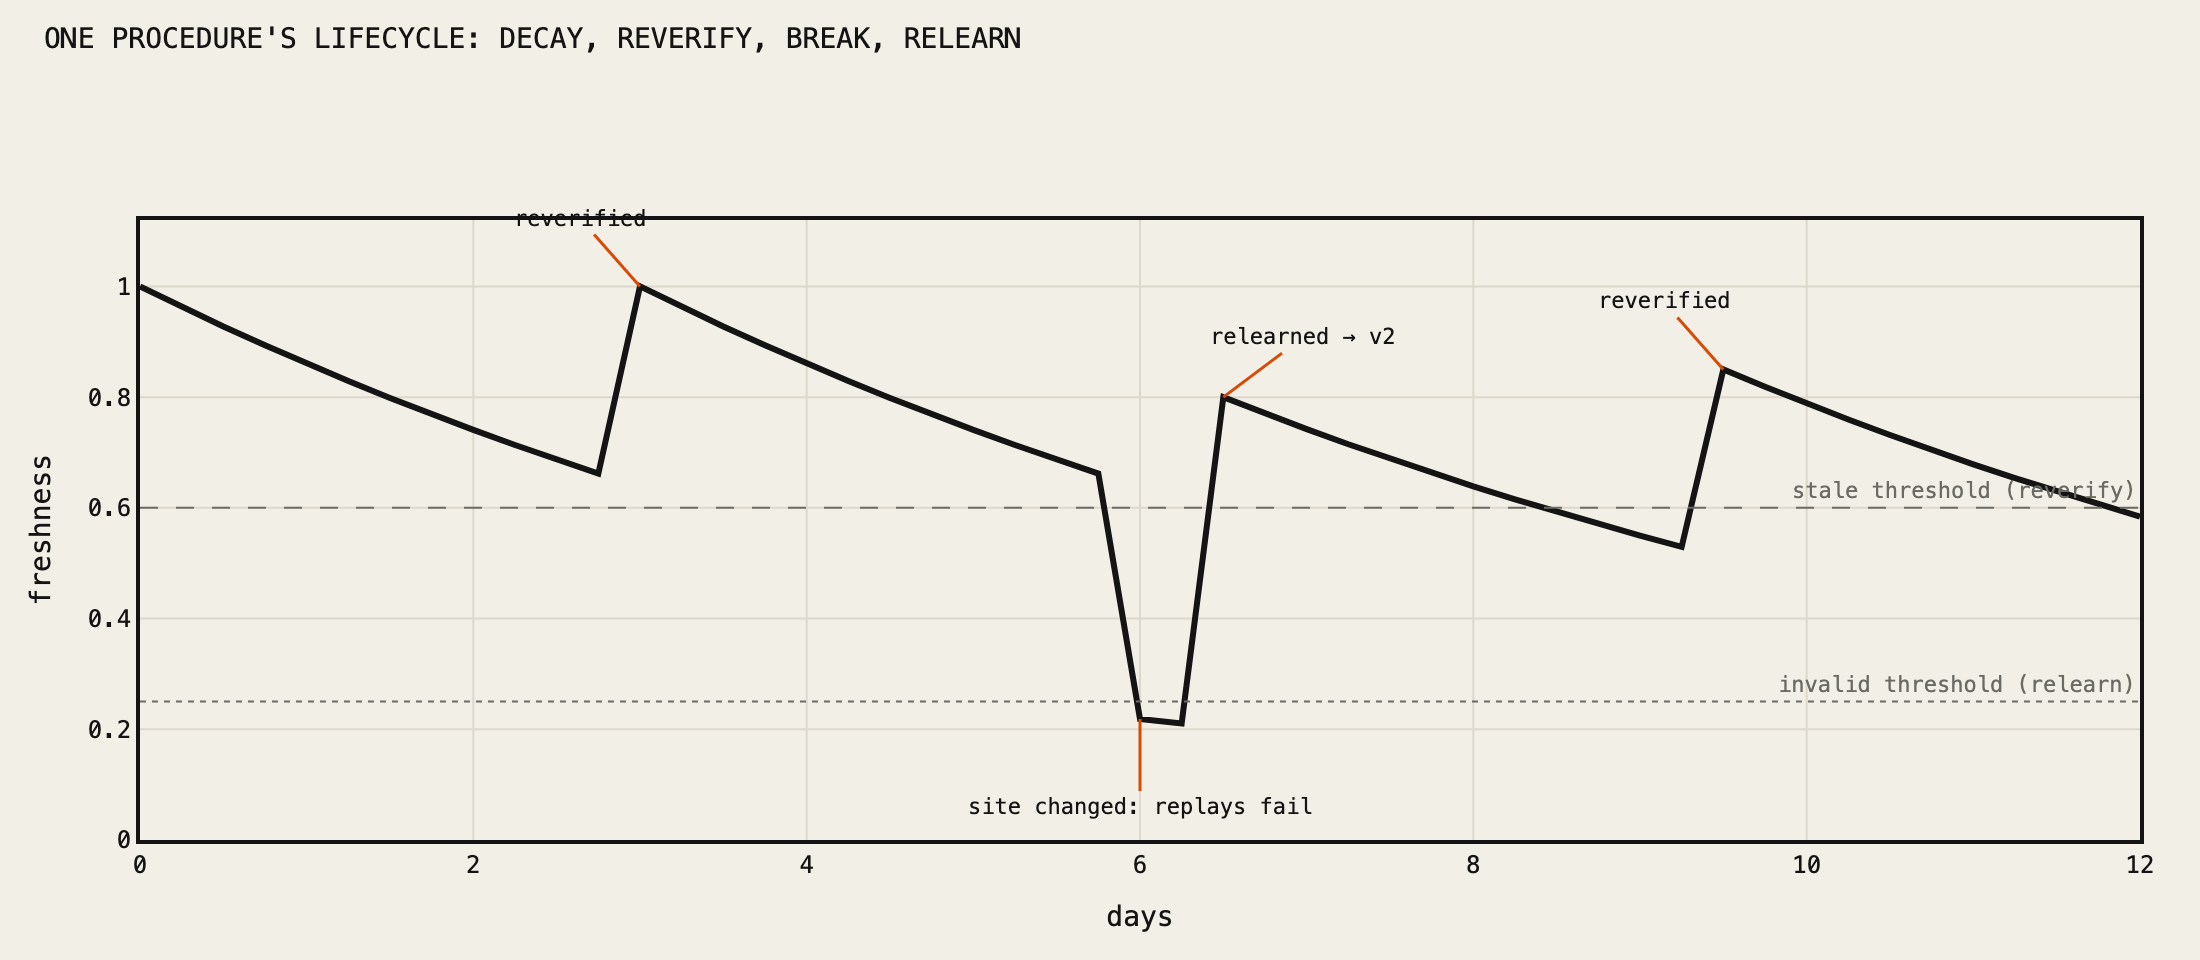
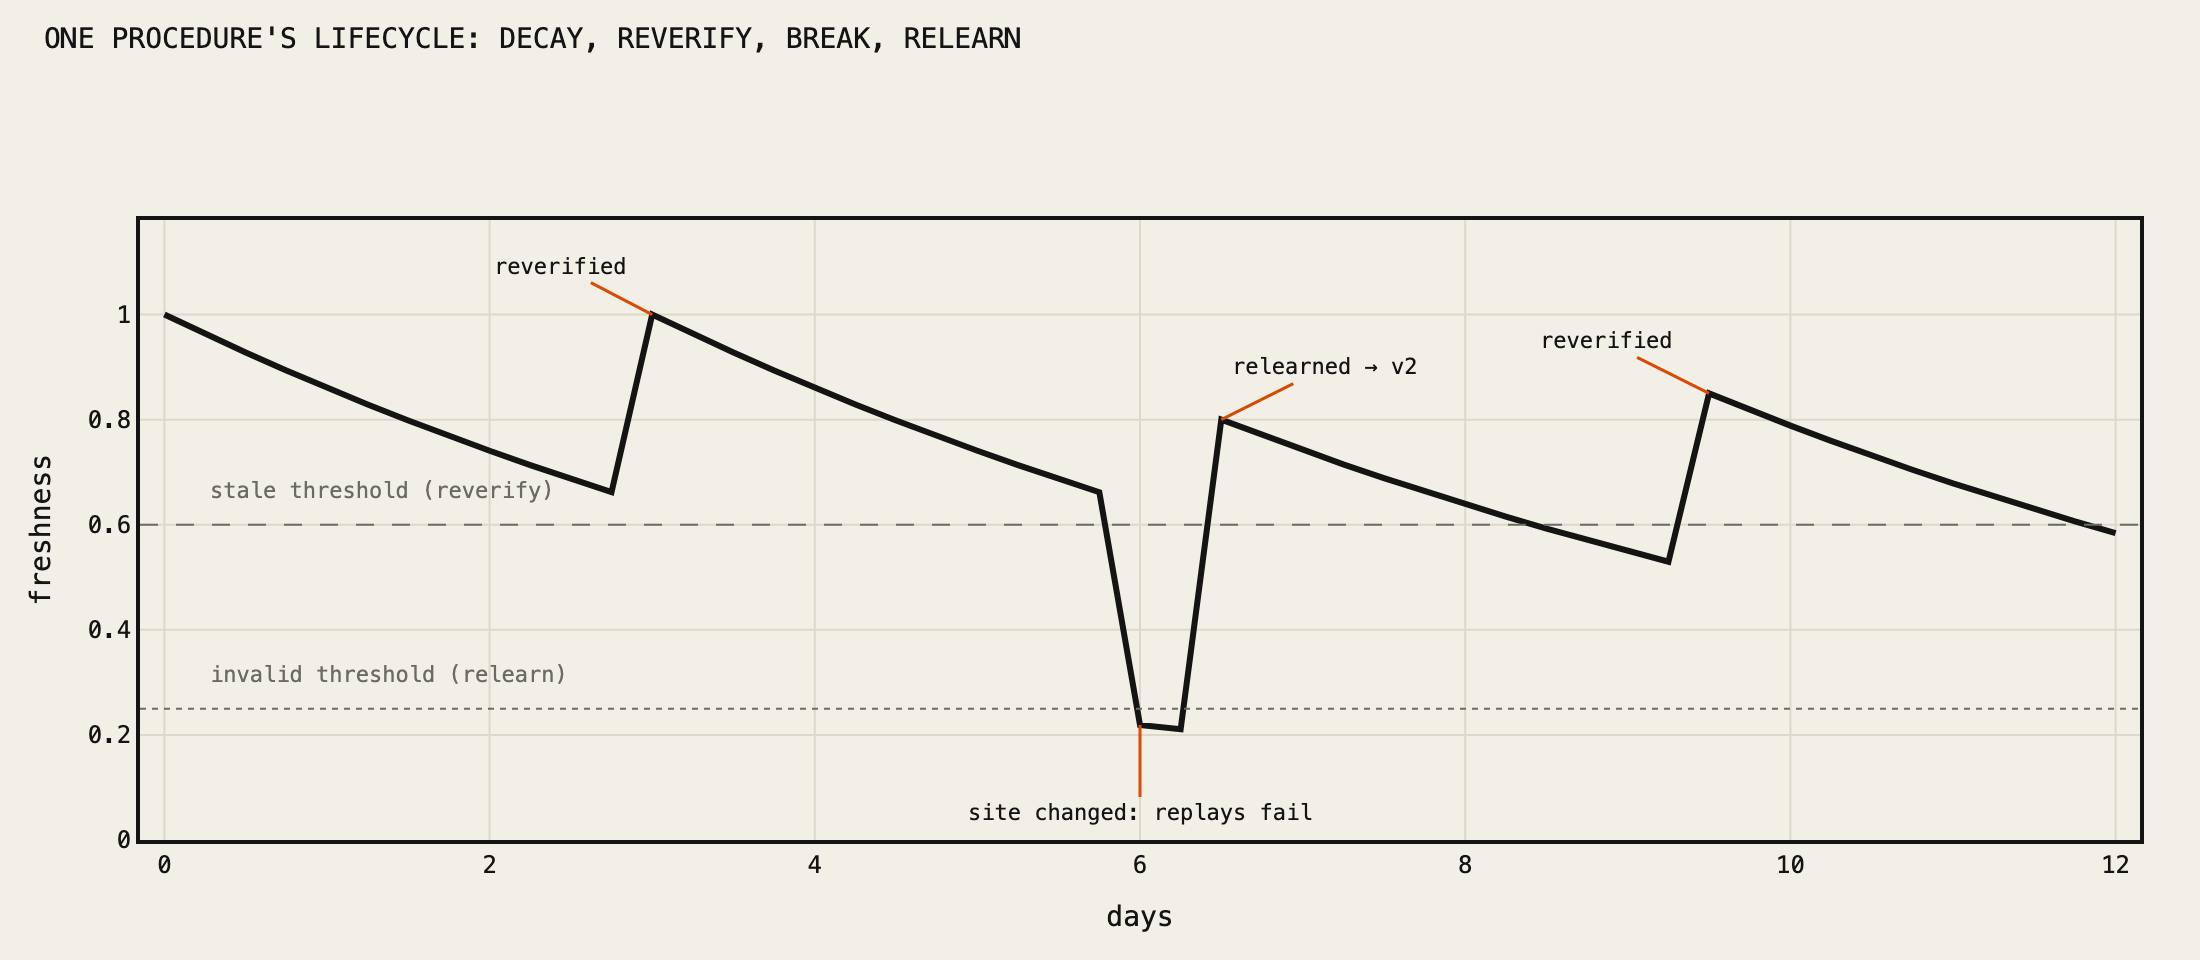
bench: fix lifecycle chart label collisions
Threshold labels move to the left of the plot where the curve never
visits; the day-3 reverified label points up-left of the peak. Landing
rebuilt with the fixed chart (?v=3).

diff --git a/landing/src/App.jsx b/landing/src/App.jsx
@@ -142,7 +142,7 @@ export default function App() {
         </dl>
         <figure className="figure" style={{ marginTop: 26 }}>
           <img
-            src="/chart3_freshness_lifecycle.png?v=2"
+            src="/chart3_freshness_lifecycle.png?v=3"
             alt="freshness over twelve days: decay, reverify, break, relearn"
             loading="lazy"
           />

diff --git a/bench/charts.py b/bench/charts.py
@@ -127,14 +127,20 @@ def chart_lifecycle() -> None:
         (0.25, "dot", "invalid threshold (relearn)"),
     ):
         fig.add_hline(y=y, line={"color": DIM, "width": 1, "dash": dash})
-        fig.add_annotation(x=12, y=y, text=label, showarrow=False,
+        # labels live on the left where the curve never visits
+        fig.add_annotation(x=0.25, y=y + 0.03, text=label, showarrow=False,
                            font={"color": DIM, "size": 11},
-                           xanchor="right", yanchor="bottom")
-    shifts = {"reverified": (-30, -34), "site changed: replays fail": (0, 44),
-              "relearned → v2": (40, -30)}
+                           xanchor="left", yanchor="bottom")
+    # keyed by (event, day) so each label points into empty plot area
+    shifts = {
+        ("reverified", 3.0): (-46, -24),
+        ("site changed: replays fail", 6.0): (0, 44),
+        ("relearned → v2", 6.5): (52, -26),
+        ("reverified", 9.5): (-52, -26),
+    }
     for r in rows:
         if r["event"]:
-            dx, dy = shifts.get(r["event"], (0, -40))
+            dx, dy = shifts.get((r["event"], float(r["day"])), (0, -40))
             fig.add_annotation(
                 x=float(r["day"]), y=float(r["freshness"]), text=r["event"],
                 ax=dx, ay=dy, arrowcolor=ACCENT, arrowwidth=1.5,
@@ -143,8 +149,8 @@ def chart_lifecycle() -> None:
     fig.update_layout(
         _layout("one procedure's lifecycle: decay, reverify, break, relearn")
     )
-    fig.update_xaxes(title="days")
-    fig.update_yaxes(title="freshness", range=[0, 1.12])
+    fig.update_xaxes(title="days", range=[-0.15, 12.15])
+    fig.update_yaxes(title="freshness", range=[0, 1.18])
     _export(fig, "chart3_freshness_lifecycle.png", 1100, 480)
 
 